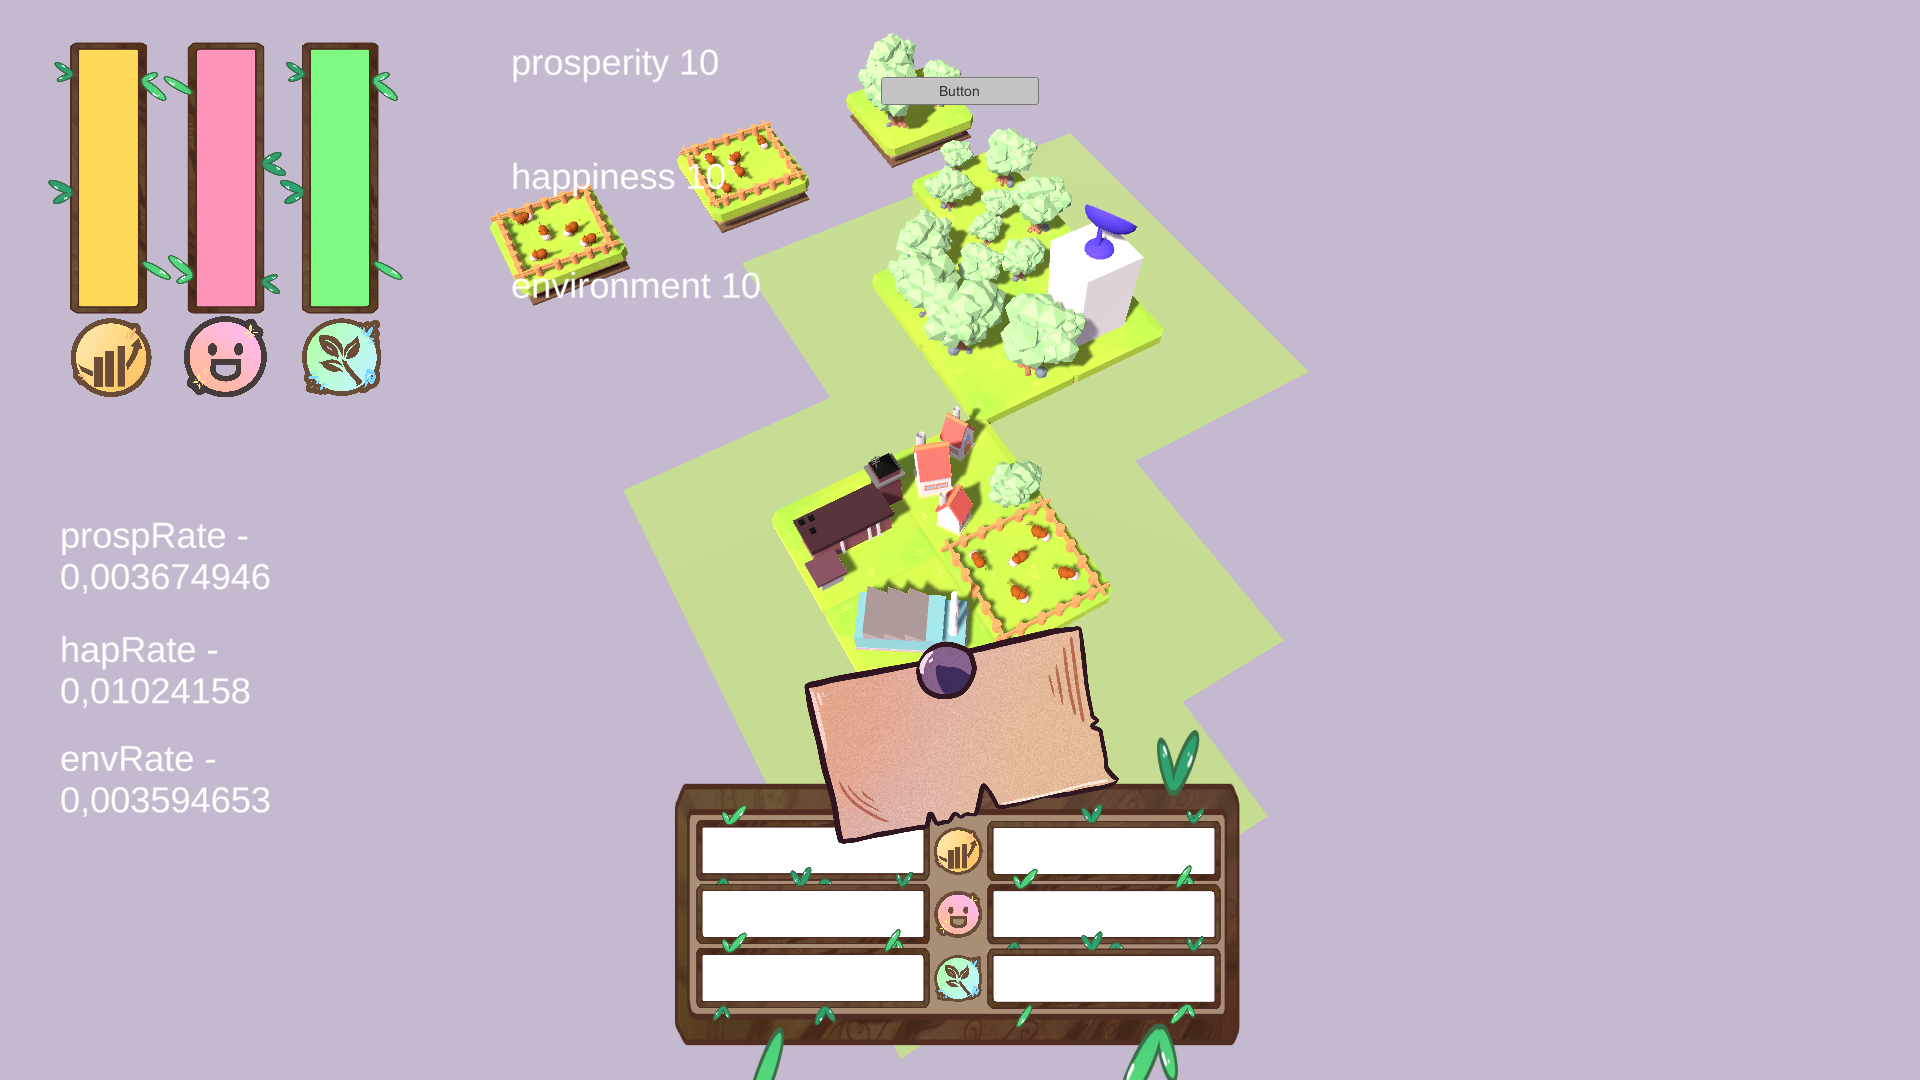
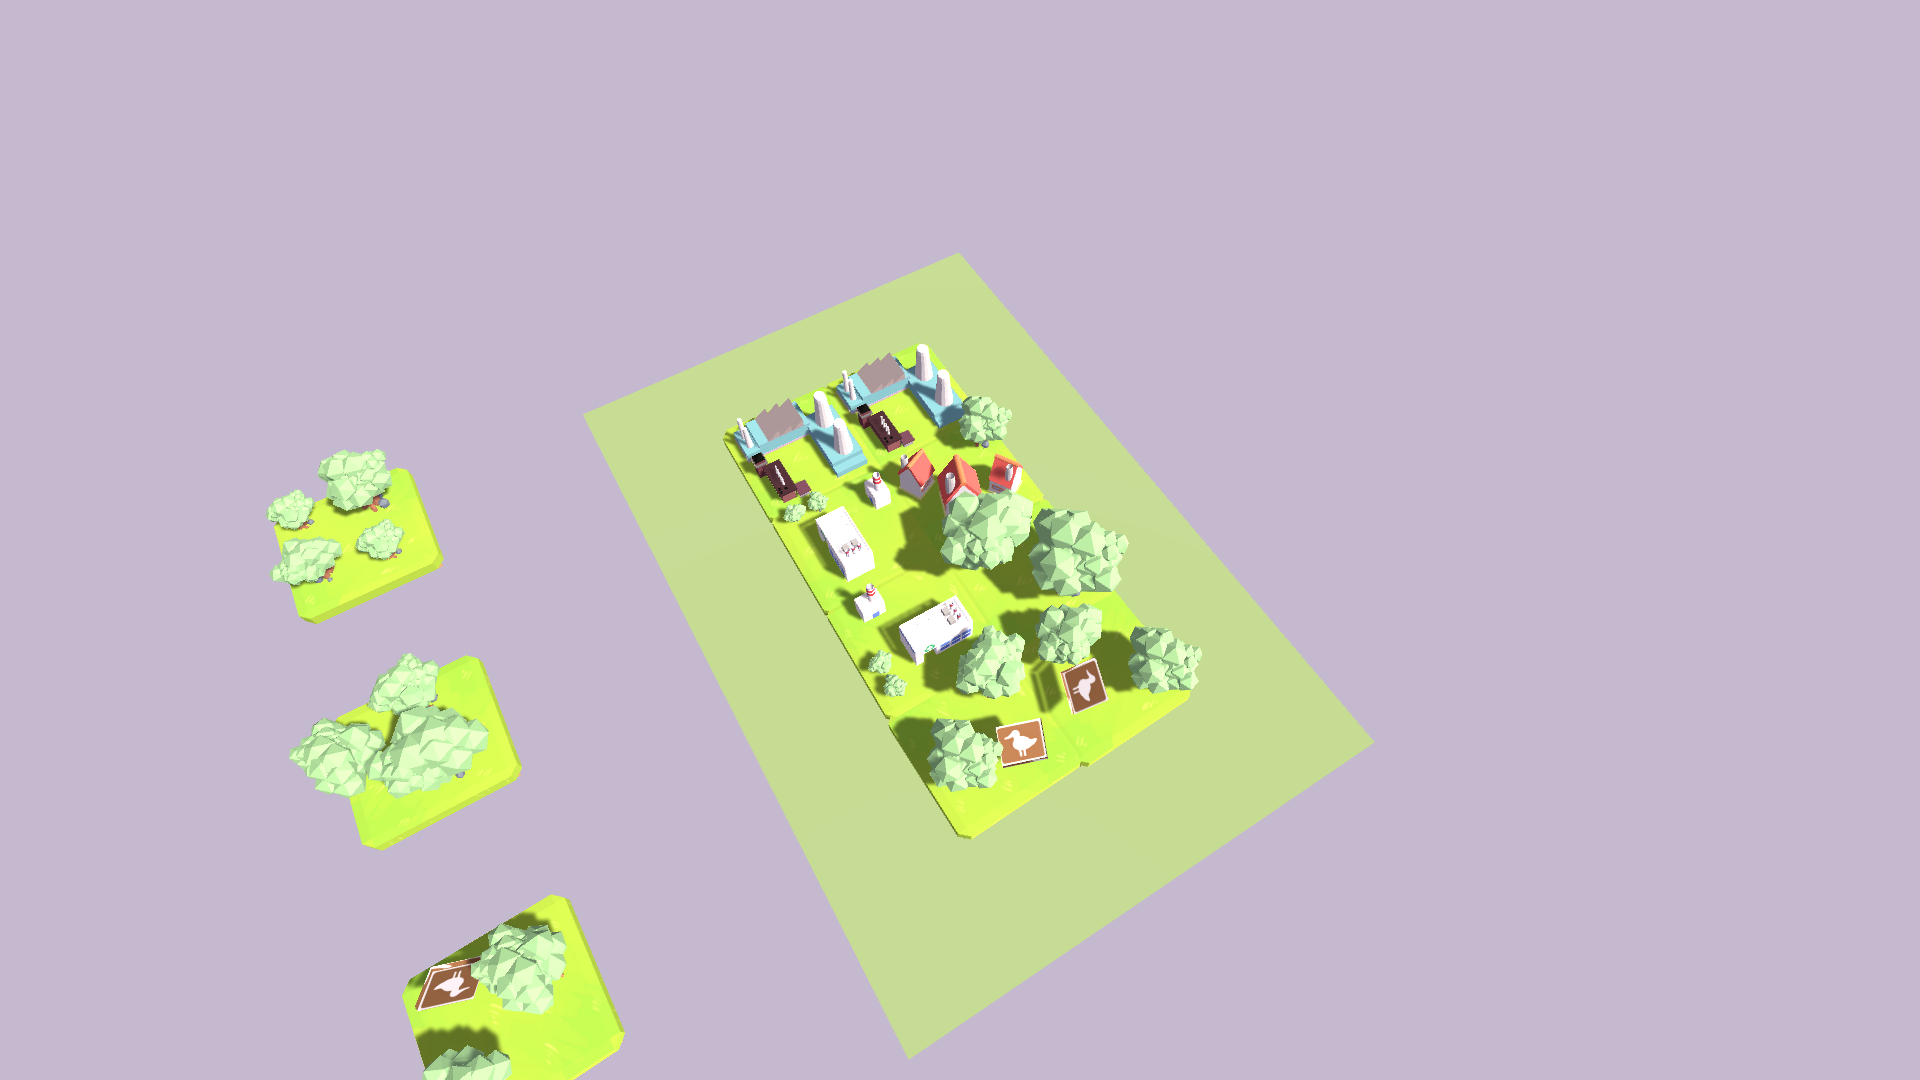
Update Jan
TakeScreenshot macht Screenshots ohne das UI
WinningCondition hat Needsmanager zu einer privaten Variable gemacht
neuer Test Screenshot wurde erstellt

diff --git a/SustainableDorf/Assets/Scripts/WinningCondition.cs b/SustainableDorf/Assets/Scripts/WinningCondition.cs
@@ -4,7 +4,7 @@ using UnityEngine;
 
 public class WinningCondition : MonoBehaviour
 {
-    public NeedsManager NeedsManager;
+    NeedsManager NeedsManager;
     GameObject Button;
     float enviromentLimit;
     float happinessLimit;
